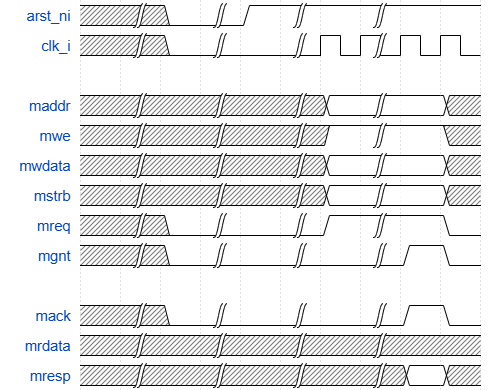
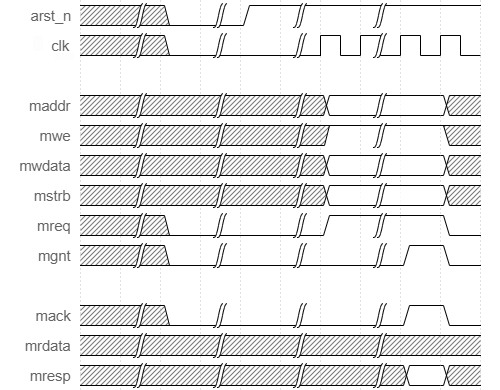
modified:   document/pmi/PMI_Protocol_Specification.md modified:   document/pmi/b2b.png modified:   document/pmi/rd.png modified:   document/pmi/rd_w.png modified:   document/pmi/wr.png modified:   document/pmi/wr_w.png

diff --git a/document/pmi/PMI_Protocol_Specification.md b/document/pmi/PMI_Protocol_Specification.md
@@ -1,158 +1,188 @@
 # Pipelined Memory Interface (PMI) Specification
 
-## 1. Introduction
+## 1. Purpose
 
-The **Pipelined Memory Interface (PMI)** is a synchronous request/response memory protocol intended for on-chip communication between a single master and a single slave. PMI supports pipelined requests, slave backpressure, multiple outstanding transactions, and strictly ordered responses.
+The Pipelined Memory Interface (PMI) is a synchronous request/response
+protocol for on-chip communication between one master and one slave.
 
-## 2. Interface Signals
+PMI supports:
 
-| Signal   | Dir    | Width        | Description                       |
-| -------- | ------ | ------------ | --------------------------------- |
-| `clk`    | Global | 1            | Rising-edge clock                 |
-| `arst_n` | Global | 1            | Asynchronous active-low reset     |
-| `maddr`  | M→S    | 1--32        | Aligned address                   |
-| `mwe`    | M→S    | 1            | Write enable (1=write, 0=read)    |
-| `mwdata` | M→S    | 8/16/32/64   | Write data                        |
-| `mstrb`  | M→S    | DATA_WIDTH/8 | Byte write strobes                |
-| `mreq`   | M→S    | 1            | Request valid                     |
-| `mgnt`   | S→M    | 1            | Request grant/ready               |
-| `mack`   | S→M    | 1            | Response valid                    |
-| `mrdata` | S→M    | DATA_WIDTH   | Read data                         |
-| `mresp`  | S→M    | 1            | Response status (0=OKAY, 1=ERROR) |
+- pipelined requests,
+- slave backpressure,
+- multiple outstanding transactions,
+- strictly in-order responses.
 
-## 3. Transaction Overview
+## 2. Signal Set
 
-A request is accepted on the rising edge of `clk` when:
+| Signal   | Direction | Width        | Description                           |
+| -------- | --------- | ------------ | ------------------------------------- |
+| `clk`    | Global    | 1            | Rising-edge clock                     |
+| `arst_n` | Global    | 1            | Asynchronous active-low reset         |
+| `maddr`  | M->S      | 1 to 32      | Naturally aligned address             |
+| `mwe`    | M->S      | 1            | Write enable (1=write, 0=read)        |
+| `mwdata` | M->S      | 8/16/32/64   | Write data                            |
+| `mstrb`  | M->S      | DATA_WIDTH/8 | Byte write strobes                    |
+| `mreq`   | M->S      | 1            | Request valid                         |
+| `mgnt`   | S->M      | 1            | Request grant (request-channel ready) |
+| `mack`   | S->M      | 1            | Response valid                        |
+| `mrdata` | S->M      | DATA_WIDTH   | Read data                             |
+| `mresp`  | S->M      | 1            | Response code                         |
+
+## 3. Basic Handshakes and Terms
+
+### 3.1 Request Acceptance
+
+A request is accepted on a rising clock edge when all are true:
 
 ```text
 arst_n && mreq && mgnt
 ```
 
-Accepted requests become **outstanding transactions**.
+Each accepted request creates one outstanding transaction.
 
-A transaction completes only when `mack` is asserted.
+### 3.2 Response Completion
 
-- Read latency is implementation-defined.
-- Write latency is implementation-defined.
-- Multiple outstanding requests are supported.
-- Responses are returned strictly in-order.
-- The request and response channels are independent.
+A transaction completes when `mack` is asserted on a rising clock edge.
+Exactly one completion response is generated per accepted request.
 
-## 4. Protocol Rules
+### 3.3 Channel Independence
+
+The request channel (`mreq`/`mgnt`) and response channel (`mack` +
+payload) are independent. A response can occur in the same cycle as a
+new request acceptance.
+
+## 4. Reset Behavior
+
+During reset (`arst_n=0`):
+
+- `mreq=0`
+- `mgnt=0`
+- `mack=0`
+
+All other signals are don't-care during reset.
+
+## 5. Protocol Rules
 
 ### PR-1 Clocking
 
-All protocol transfers occur on the rising edge of `clk` while
-`arst_n` is high.
+All protocol transfers are sampled on rising edges of `clk` while
+`arst_n=1`.
 
-### PR-2 Reset
+### PR-2 Request Validity
 
-During reset (`arst_n=0`): - `mreq` = 0 - `mgnt` = 0 - `mack` = 0
+Before asserting `mreq`, the master shall drive valid values for
+`maddr`, `mwe`, `mwdata`, and `mstrb`.
 
-All other signals are don't-care.
+### PR-3 Request Acceptance
 
-### PR-3 Request Validity
+A request is accepted only on cycles where `mreq=1` and `mgnt=1`.
 
-The master shall drive valid values for `maddr`, `mwe`, `mwdata`, and
-`mstrb` before asserting `mreq`.
+### PR-4 Stable Request While Stalled
 
-### PR-4 Request Acceptance
-
-A request is accepted only when `mreq` and `mgnt` are both high on a
-rising clock edge.
-
-### PR-5 Stable Request Rule
-
-While `mreq=1` and `mgnt=0`, the master shall hold `maddr`, `mwe`,
+While `mreq=1` and `mgnt=0`, the master shall keep `maddr`, `mwe`,
 `mwdata`, and `mstrb` stable.
 
-### PR-6 Request Completion
+### PR-5 Post-Handshake Update
 
-After a successful request handshake, the master may modify all request
-signals on the following cycle.
+After a request is accepted, the master may change request signals on
+the next cycle.
+
+### PR-6 Backpressure
+
+The slave shall throttle new requests only by deasserting `mgnt`.
 
 ### PR-7 Outstanding Transactions
 
-The protocol supports multiple outstanding transactions. The maximum
-number is implementation-defined. A slave shall deassert `mgnt` whenever
-it cannot accept more requests.
+Multiple outstanding transactions are allowed. Maximum depth is
+implementation-defined.
 
 ### PR-8 Continuous Grant
 
-The slave may hold `mgnt` asserted continuously. In that case, the
-master may issue one request every clock cycle.
+If `mgnt` remains asserted, the master may issue one accepted request
+per cycle.
 
-### PR-9 Response Generation
+### PR-9 One Response Per Request
 
-Exactly one `mack` shall be generated for every accepted request.
+Exactly one `mack` shall be generated for each accepted request.
 
-### PR-10 Ordering
+### PR-10 In-Order Responses
 
-Responses shall be returned in the same order that requests were
-accepted.
+Responses shall return in the same order as request acceptance order.
 
-### PR-11 Independent Channels
+### PR-11 Read Response Payload
 
-A response may occur in the same cycle that another request is accepted.
+For read responses (`mwe=0` for the corresponding request), `mrdata` and
+`mresp` are valid when `mack=1`.
 
-### PR-12 Read Response
+### PR-12 Write Response Payload
 
-For reads, `mrdata` and `mresp` are valid whenever `mack` is asserted.
+For write responses (`mwe=1` for the corresponding request), `mrdata` is
+don't-care and `mresp` indicates status.
 
-### PR-13 Write Response
+### PR-13 Transaction Completion Point
 
-For writes, `mrdata` is don't-care. `mresp` indicates success or
-failure.
+A transaction is complete only when its `mack` is asserted.
 
-### PR-14 Transaction Completion
+### PR-14 Response Latency
 
-A transaction completes only when `mack` is asserted.
+No minimum or maximum response latency is required by PMI.
 
-### PR-15 Response Encoding
+### PR-15 Byte Strobes
 
-    `mresp` Meaning
+`mstrb` selects active write byte lanes. `mstrb==0` is legal and
+produces a no-op write.
 
----
-
-          0 OKAY
-          1 ERROR
-
-### PR-16 Byte Strobes
-
-`mstrb` selects active byte lanes. `mstrb==0` is legal and performs no
-write.
-
-### PR-17 Address Alignment
+### PR-16 Address Alignment
 
 `maddr` shall be naturally aligned to the data bus width.
 
-### PR-18 Read Data Validity
+## 6. Response Encoding
 
-`mrdata` is only valid for read responses when `mack` is asserted.
+| `mresp` | Meaning |
+| ------- | ------- |
+| 0       | OKAY    |
+| 1       | ERROR   |
 
-### PR-19 Backpressure
+## 7. Timing Notes
 
-The slave shall throttle requests solely using `mgnt`.
+- Read and write latencies are implementation-defined.
+- A response may coincide with acceptance of another request.
+- Request throughput can reach one request per cycle when `mgnt=1`
+  continuously.
 
-### PR-20 Response Latency
+## 8. Reference Timing Examples
 
-The protocol places no minimum or maximum bound on response latency.
+1. Single read transaction.
 
-## 5. Recommended Timing Examples
+Description:
+A single read request is accepted on a `mreq && mgnt` handshake, and one corresponding response is returned. `mrdata` is only meaningful on the cycle where `mack=1`.
 
-1.  Single-Cycle Write
-2.  Write with Backpressure
-3.  Single-Cycle Read
-4.  Read with Backpressure
-5.  Back-to-Back Transactions
-6.  Simultaneous Request Acceptance and Response
+![Single read](rd.png)
 
-![alt text](b2b.png)
+2. Single write transaction.
 
-![alt text](rd_w.png)
+Description:
+A write is accepted immediately (no stall), followed by exactly one response. This illustrates the minimal write flow: handshake, optional latency, then completion via `mack`.
 
-![alt text](rd.png)
+![Single write](wr.png)
 
-![alt text](wr_w.png)
+3. Read with backpressure and delayed response.
 
-![alt text](wr.png)
+Description:
+The master asserts `mreq` for a read, but `mgnt` is temporarily deasserted by the slave. Request fields remain stable during stall, then the request is accepted when `mgnt` returns high. The response arrives later with valid `mrdata` and `mresp` when `mack=1`.
+
+![Read with backpressure](rd_w.png)
+
+4. Write with backpressure.
+
+Description:
+The master issues a write request while the slave applies request-channel backpressure (`mgnt=0`). Address, write enable, data, and strobes remain stable until acceptance. A single completion response follows, with `mresp` indicating status and `mrdata` don't-care.
+
+![Write with backpressure](wr_w.png)
+
+5. Back-to-back transactions and simultaneous request/response activity.
+
+Description:
+Two requests are accepted on consecutive cycles while `mgnt=1`. A prior response (`mack=1`) overlaps with a new request acceptance, illustrating independent request and response channels and pipelined throughput.
+
+![Back-to-back and overlap example](b2b.png)
